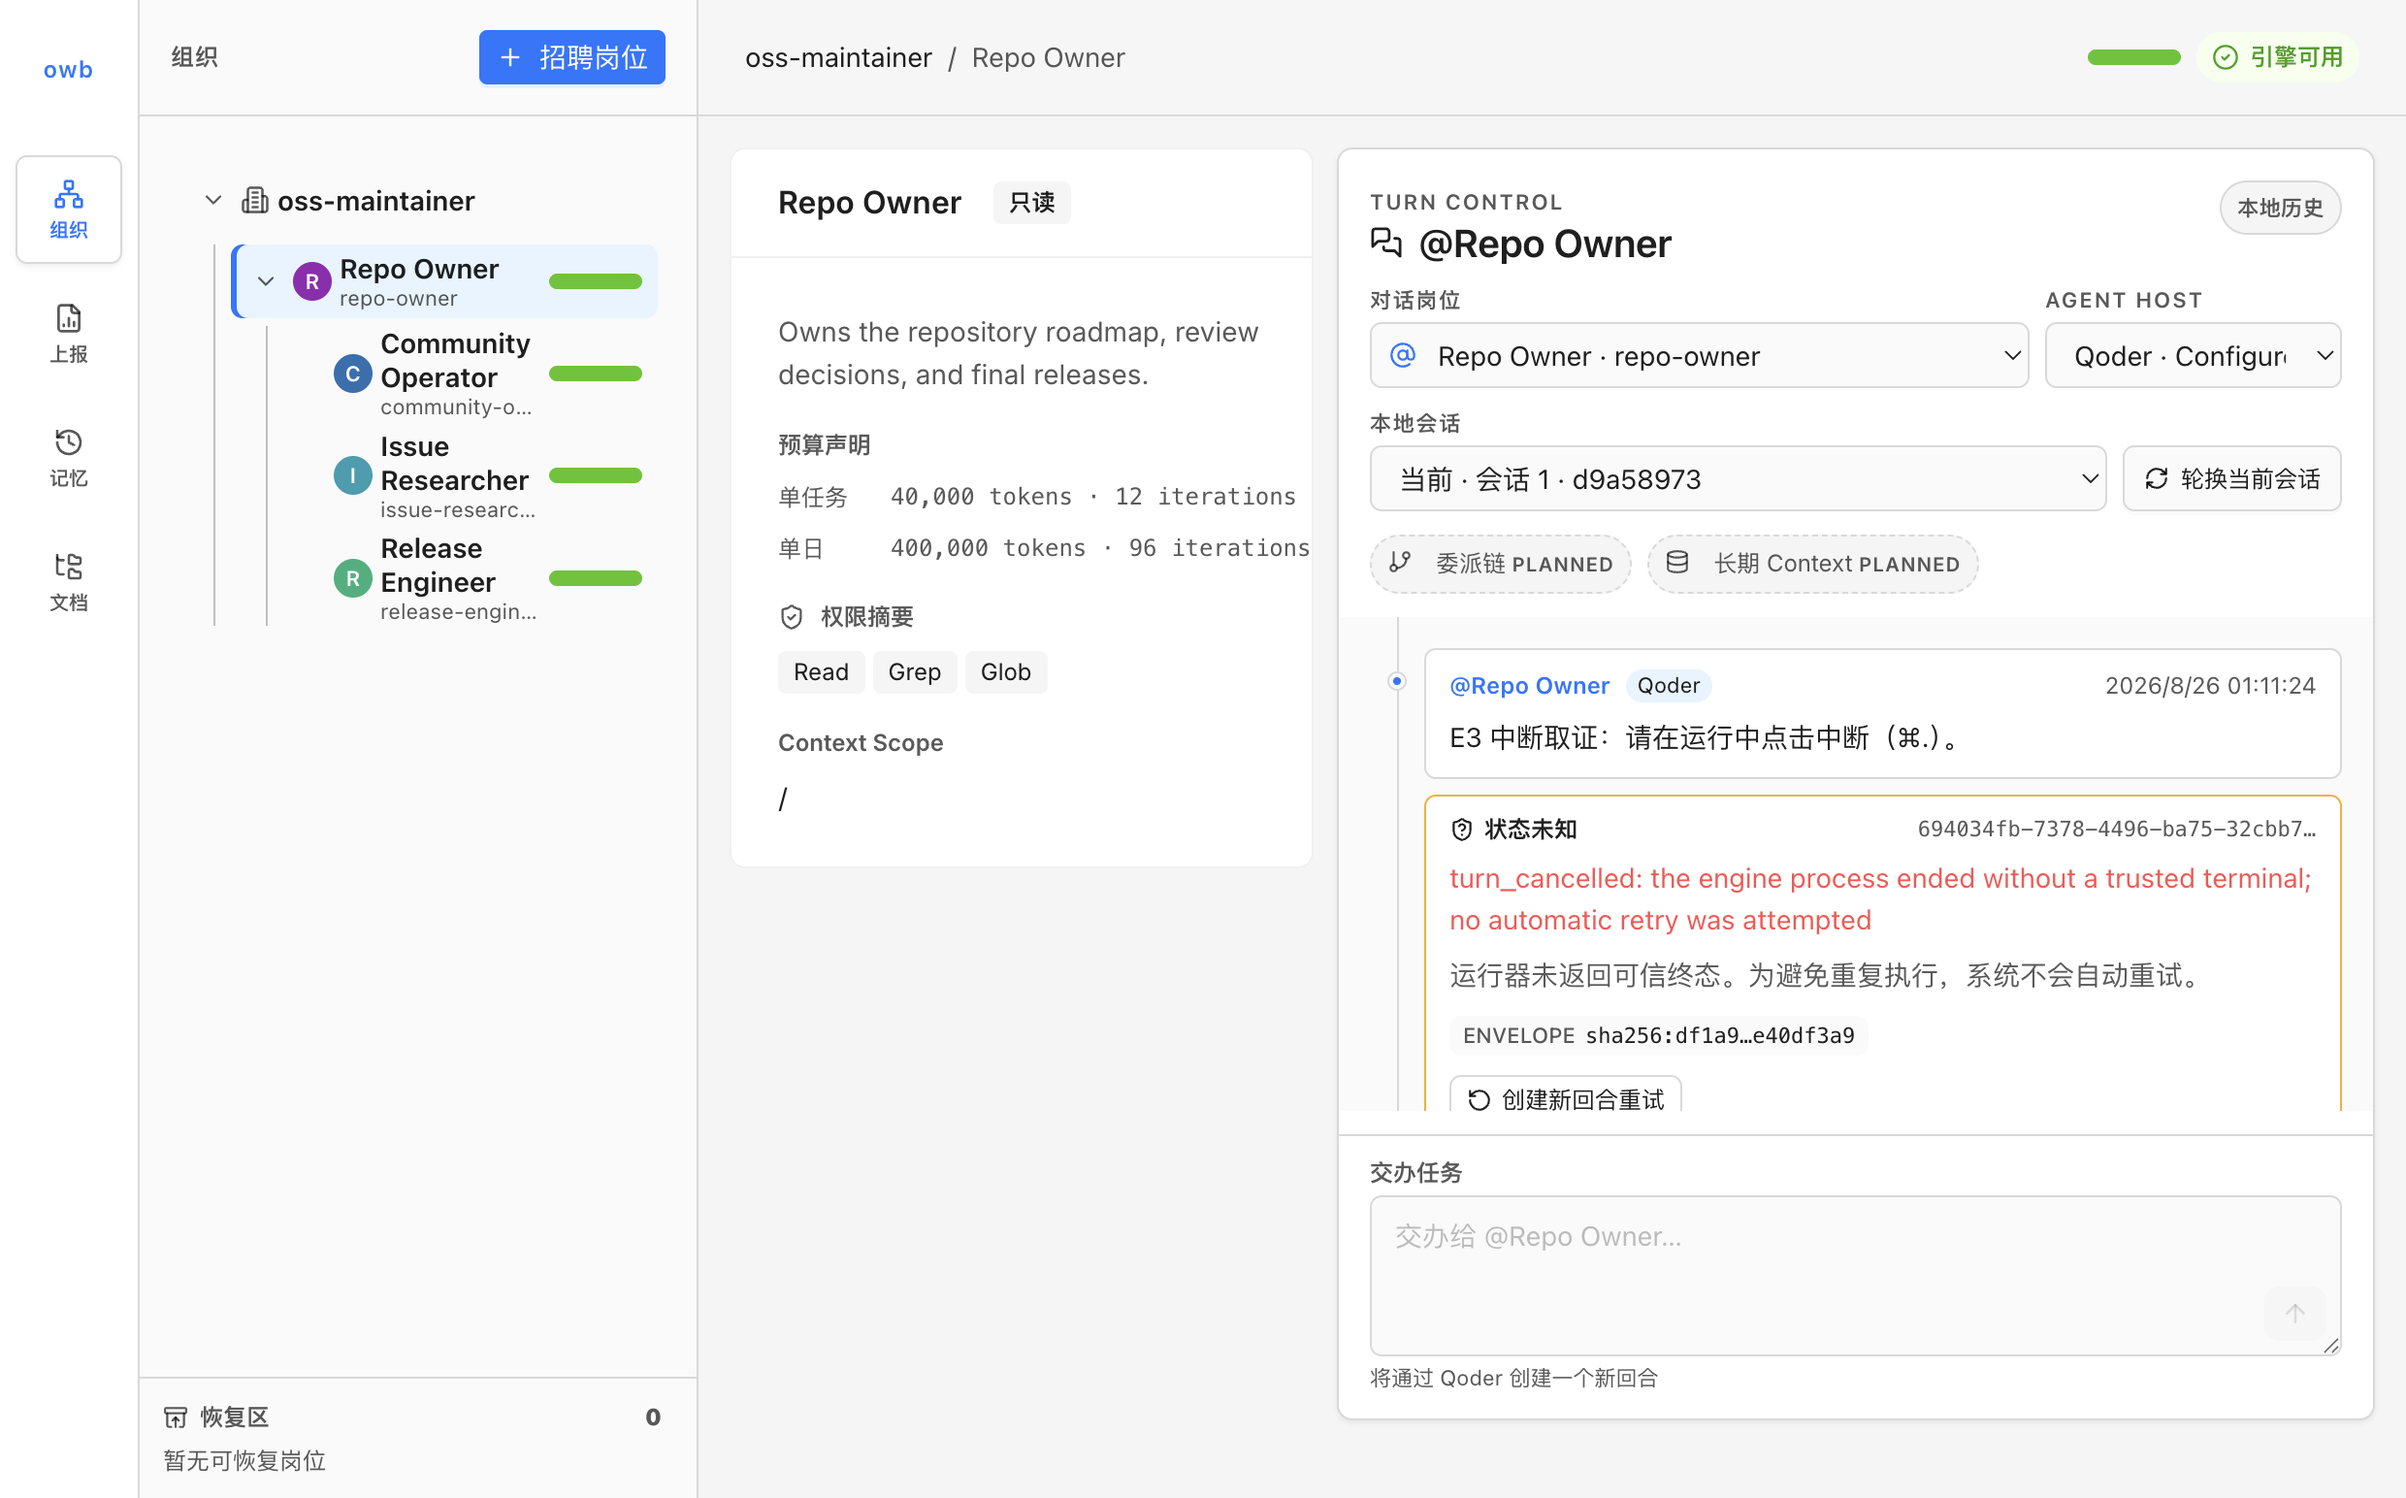
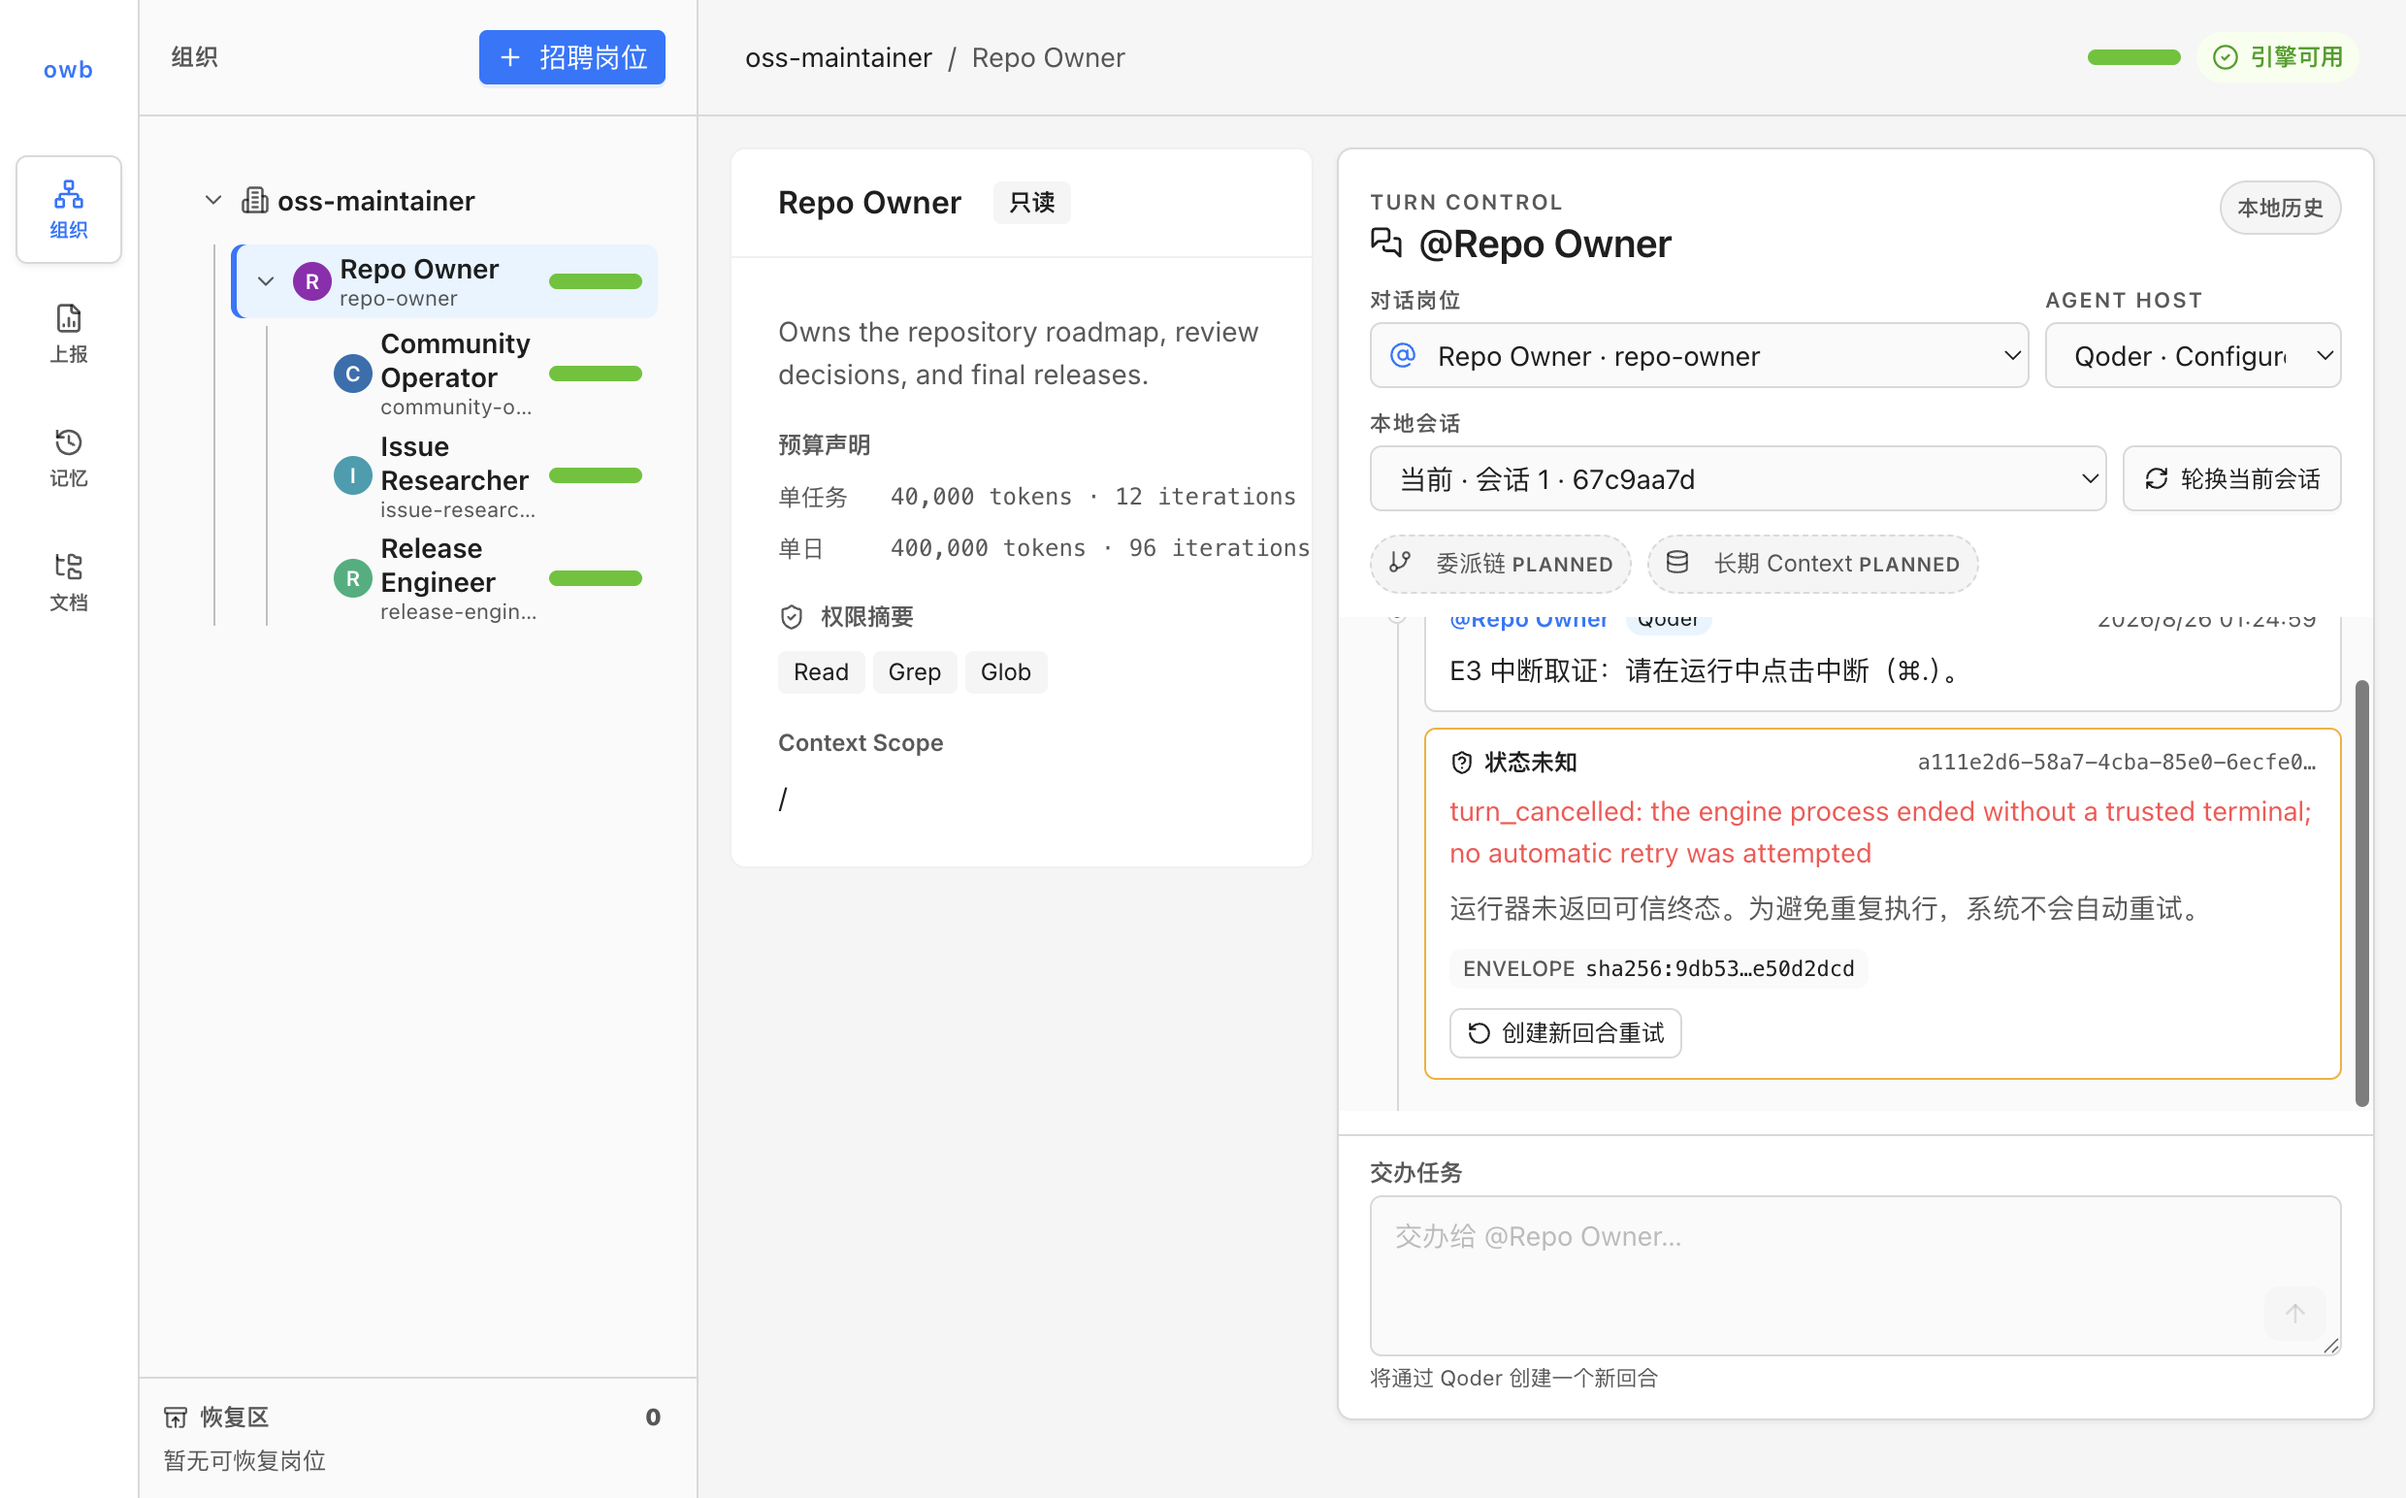
docs(evidence): #25 Slice A 重取证——全新工作区干净捕获（host E3）
旧截图混入历史终态卡片，状态行不在视口内；以 /tmp/owb-e3-ws2
（无历史回合）重跑 CDP 取证，补充「中断前终态卡片数=0」断言，
更新 envelope 指纹 sha256:9db53…e50d2dcd。

Changed region(s): [[0.5899, 0.4041, 0.9935, 0.7461], [0.8694, 0.4041, 0.9625, 0.4663], [0.652, 0.3109, 0.7141, 0.342]]

diff --git a/docs/evidence/issue-25/README.md b/docs/evidence/issue-25/README.md
@@ -10,13 +10,15 @@ run.started → model.delta → usage → model.delta，随后保持在途不退
 
 ```
 QODER_PERSONAL_ACCESS_TOKEN=evidence-dummy-token \
-ORG_WORKBENCH_DEFAULT_WORKSPACE=/tmp/owb-e3-ws \
+ORG_WORKBENCH_DEFAULT_WORKSPACE=/tmp/owb-e3-ws2 \
 ORG_WORKBENCH_DIGITAL_EMPLOYEE_CLI="node /tmp/owb-e3-stub.mjs" \
 npx electron apps/desktop/src/main.js --remote-debugging-port=9334
 ```
 
 其中 `QODER_PERSONAL_ACCESS_TOKEN` 使用占位值仅用于通过 qoder host 就绪门禁
 （stub 不发起任何真实模型调用），不影响中断链路取证的有效性。
+`/tmp/owb-e3-ws2` 为全新工作区（自 oss-maintainer 模板复制组织/岗位/manifest，
+不含任何历史回合），保证「中断前 DOM 终态卡片数 = 0」的断言成立。
 
 ## statusline.png（在途回合：紧凑状态行 + 中断入口）
 
@@ -34,13 +36,15 @@ CDP 点击中断按钮后：
   复用冻结词表 `turn.indeterminate` SSE（未新增 SSE 类型、未新增错误码）；
 - 终态卡片 `.owb-turn__response.is-indeterminate` 渲染诊断码
   `turn_cancelled: the engine process ended without a trusted terminal; no automatic retry was attempted`，
-  envelope 指纹 `sha256:df1a9…e40df3a9`，并提供「创建新回合重试」入口；
+  envelope 指纹 `sha256:9db53…e50d2dcd`，并提供「创建新回合重试」入口；
 - composer 复位，hint 恢复「将通过 Qoder 创建一个新回合」。
 
 CDP 断言（轮询时间线，节选）：
 
 ```
-statusline: Qoder·0:01·320 tokens        （usage 事件已渲染进状态行）
+pre-existing indeterminate cards: 0       （全新工作区，历史无污染）
+statusline: Qoder·0:01·320 tokens         （usage 事件已渲染进状态行）
+indeterminate cards while running: 0      （中断前回合确实在途）
 cancel clicked                            （aria-label="中断回合" 按钮命中）
 terminal: turn_cancelled                  （indeterminate 卡片出现）
 composer hint restored: 将通过 Qoder 创建一个新回合
